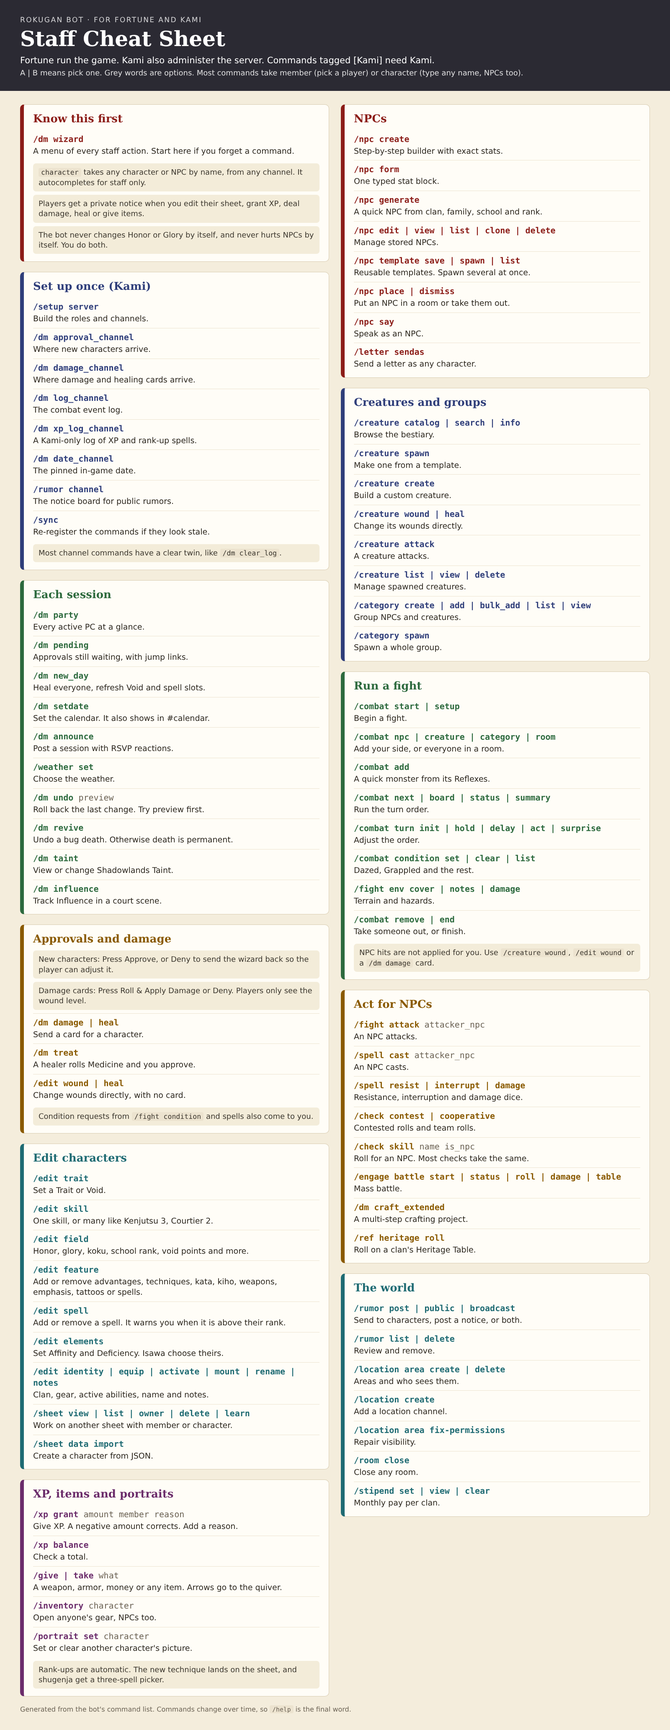
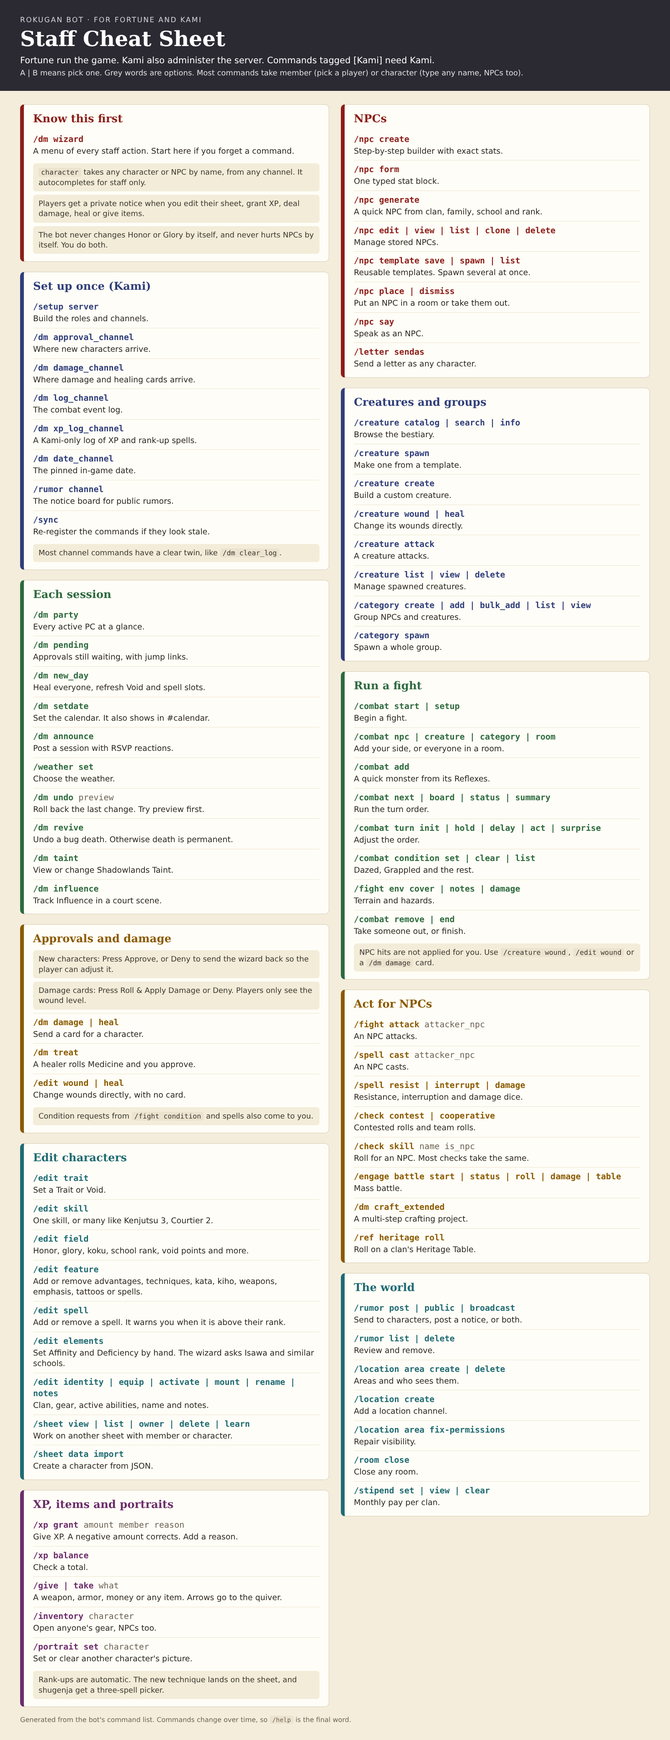
Chargen: fix the spell step for Isawa, Fuzake, Yogo and choose-your-affinity schools
An audit of every shugenja school in the wizard found several whose spell
step was broken or missing:

- Isawa Shugenja: its starting spells ("3 of any one element, 2 of any other
  element...") were parsed into nonsense element names, so no spell could be
  picked. The wizard now asks which element gets the 3, the 2 and the two 1s,
  then runs the normal picker.
- Isawa, Dutiful Disciple and Self-Taught let the player choose their
  Affinity, which the wizard never asked, so Mastery 2 spells in that element
  were never offered and the sheet got no Affinity. A new Affinity step comes
  first. Isawa has no Deficiency; the other two are Deficient in the opposing
  element. A Change Affinity button works until a spell is picked.
- Fuzake: "(one is automatically Path to Inner Peace)" ended up inside the
  element name. The label is clean and Path to Inner Peace is granted and
  counted against the Water slots.
- Yogo Wardmaster picks spells by keyword, which the wizard cannot do. It now
  says so and lets the player continue, instead of showing empty menus.
  Staff add the spells with /edit spell.
- Changing school in the wizard now clears the old school's spell choices.

Self-Taught's second Deficiency and Yogo's keyword Affinity are not
modelled on the sheet and are called out in the wizard text.

Claude-Session: https://claude.ai/code/session_01KS9eZFiisvRgjoufBXVsmu

diff --git a/discord_bot/cheatsheets/staff.html b/discord_bot/cheatsheets/staff.html
@@ -33,7 +33,7 @@ footer { padding:0 48px 30px; color:var(--muted); font-size:16px; }
 <header><div class="kicker">Rokugan Bot · For Fortune and Kami</div>
 <h1>Staff Cheat Sheet</h1>
 <p>Fortune run the game. Kami also administer the server. Commands tagged [Kami] need Kami.</p><p class="legend">A | B means pick one. Grey words are options. Most commands take member (pick a player) or character (type any name, NPCs too).</p></header>
-<main><section class="card" style="--accent:#8c1d18"><h2>Know this first</h2><div class="row"><div class="cmd">/dm wizard</div><div class="desc">A menu of every staff action. Start here if you forget a command.</div></div><div class="note"><code>character</code> takes any character or NPC by name, from any channel. It autocompletes for staff only.</div><div class="note">Players get a private notice when you edit their sheet, grant XP, deal damage, heal or give items.</div><div class="note">The bot never changes Honor or Glory by itself, and never hurts NPCs by itself. You do both.</div></section><section class="card" style="--accent:#2f3e7a"><h2>Set up once (Kami)</h2><div class="row"><div class="cmd">/setup server</div><div class="desc">Build the roles and channels.</div></div><div class="row"><div class="cmd">/dm approval_channel</div><div class="desc">Where new characters arrive.</div></div><div class="row"><div class="cmd">/dm damage_channel</div><div class="desc">Where damage and healing cards arrive.</div></div><div class="row"><div class="cmd">/dm log_channel</div><div class="desc">The combat event log.</div></div><div class="row"><div class="cmd">/dm xp_log_channel</div><div class="desc">A Kami-only log of XP and rank-up spells.</div></div><div class="row"><div class="cmd">/dm date_channel</div><div class="desc">The pinned in-game date.</div></div><div class="row"><div class="cmd">/rumor channel</div><div class="desc">The notice board for public rumors.</div></div><div class="row"><div class="cmd">/sync</div><div class="desc">Re-register the commands if they look stale.</div></div><div class="note">Most channel commands have a clear twin, like <code>/dm clear_log</code>.</div></section><section class="card" style="--accent:#2d6a3e"><h2>Each session</h2><div class="row"><div class="cmd">/dm party</div><div class="desc">Every active PC at a glance.</div></div><div class="row"><div class="cmd">/dm pending</div><div class="desc">Approvals still waiting, with jump links.</div></div><div class="row"><div class="cmd">/dm new_day</div><div class="desc">Heal everyone, refresh Void and spell slots.</div></div><div class="row"><div class="cmd">/dm setdate</div><div class="desc">Set the calendar. It also shows in #calendar.</div></div><div class="row"><div class="cmd">/dm announce</div><div class="desc">Post a session with RSVP reactions.</div></div><div class="row"><div class="cmd">/weather set</div><div class="desc">Choose the weather.</div></div><div class="row"><div class="cmd">/dm undo <span class="opt">preview</span></div><div class="desc">Roll back the last change. Try preview first.</div></div><div class="row"><div class="cmd">/dm revive</div><div class="desc">Undo a bug death. Otherwise death is permanent.</div></div><div class="row"><div class="cmd">/dm taint</div><div class="desc">View or change Shadowlands Taint.</div></div><div class="row"><div class="cmd">/dm influence</div><div class="desc">Track Influence in a court scene.</div></div></section><section class="card" style="--accent:#8a5a00"><h2>Approvals and damage</h2><div class="note">New characters: Press Approve, or Deny to send the wizard back so the player can adjust it.</div><div class="note">Damage cards: Press Roll &amp; Apply Damage or Deny. Players only see the wound level.</div><div class="row"><div class="cmd">/dm damage | heal</div><div class="desc">Send a card for a character.</div></div><div class="row"><div class="cmd">/dm treat</div><div class="desc">A healer rolls Medicine and you approve.</div></div><div class="row"><div class="cmd">/edit wound | heal</div><div class="desc">Change wounds directly, with no card.</div></div><div class="note">Condition requests from <code>/fight condition</code> and spells also come to you.</div></section><section class="card" style="--accent:#1f6b73"><h2>Edit characters</h2><div class="row"><div class="cmd">/edit trait</div><div class="desc">Set a Trait or Void.</div></div><div class="row"><div class="cmd">/edit skill</div><div class="desc">One skill, or many like Kenjutsu 3, Courtier 2.</div></div><div class="row"><div class="cmd">/edit field</div><div class="desc">Honor, glory, koku, school rank, void points and more.</div></div><div class="row"><div class="cmd">/edit feature</div><div class="desc">Add or remove advantages, techniques, kata, kiho, weapons, emphasis, tattoos or spells.</div></div><div class="row"><div class="cmd">/edit spell</div><div class="desc">Add or remove a spell. It warns you when it is above their rank.</div></div><div class="row"><div class="cmd">/edit elements</div><div class="desc">Set Affinity and Deficiency. Isawa choose theirs.</div></div><div class="row"><div class="cmd">/edit identity | equip | activate | mount | rename | notes</div><div class="desc">Clan, gear, active abilities, name and notes.</div></div><div class="row"><div class="cmd">/sheet view | list | owner | delete | learn</div><div class="desc">Work on another sheet with member or character.</div></div><div class="row"><div class="cmd">/sheet data import</div><div class="desc">Create a character from JSON.</div></div></section><section class="card" style="--accent:#6b2c6b"><h2>XP, items and portraits</h2><div class="row"><div class="cmd">/xp grant <span class="opt">amount member reason</span></div><div class="desc">Give XP. A negative amount corrects. Add a reason.</div></div><div class="row"><div class="cmd">/xp balance</div><div class="desc">Check a total.</div></div><div class="row"><div class="cmd">/give | take <span class="opt">what</span></div><div class="desc">A weapon, armor, money or any item. Arrows go to the quiver.</div></div><div class="row"><div class="cmd">/inventory <span class="opt">character</span></div><div class="desc">Open anyone&#x27;s gear, NPCs too.</div></div><div class="row"><div class="cmd">/portrait set <span class="opt">character</span></div><div class="desc">Set or clear another character&#x27;s picture.</div></div><div class="note">Rank-ups are automatic. The new technique lands on the sheet, and shugenja get a three-spell picker.</div></section><section class="card" style="--accent:#8c1d18"><h2>NPCs</h2><div class="row"><div class="cmd">/npc create</div><div class="desc">Step-by-step builder with exact stats.</div></div><div class="row"><div class="cmd">/npc form</div><div class="desc">One typed stat block.</div></div><div class="row"><div class="cmd">/npc generate</div><div class="desc">A quick NPC from clan, family, school and rank.</div></div><div class="row"><div class="cmd">/npc edit | view | list | clone | delete</div><div class="desc">Manage stored NPCs.</div></div><div class="row"><div class="cmd">/npc template save | spawn | list</div><div class="desc">Reusable templates. Spawn several at once.</div></div><div class="row"><div class="cmd">/npc place | dismiss</div><div class="desc">Put an NPC in a room or take them out.</div></div><div class="row"><div class="cmd">/npc say</div><div class="desc">Speak as an NPC.</div></div><div class="row"><div class="cmd">/letter sendas</div><div class="desc">Send a letter as any character.</div></div></section><section class="card" style="--accent:#2f3e7a"><h2>Creatures and groups</h2><div class="row"><div class="cmd">/creature catalog | search | info</div><div class="desc">Browse the bestiary.</div></div><div class="row"><div class="cmd">/creature spawn</div><div class="desc">Make one from a template.</div></div><div class="row"><div class="cmd">/creature create</div><div class="desc">Build a custom creature.</div></div><div class="row"><div class="cmd">/creature wound | heal</div><div class="desc">Change its wounds directly.</div></div><div class="row"><div class="cmd">/creature attack</div><div class="desc">A creature attacks.</div></div><div class="row"><div class="cmd">/creature list | view | delete</div><div class="desc">Manage spawned creatures.</div></div><div class="row"><div class="cmd">/category create | add | bulk_add | list | view</div><div class="desc">Group NPCs and creatures.</div></div><div class="row"><div class="cmd">/category spawn</div><div class="desc">Spawn a whole group.</div></div></section><section class="card" style="--accent:#2d6a3e"><h2>Run a fight</h2><div class="row"><div class="cmd">/combat start | setup</div><div class="desc">Begin a fight.</div></div><div class="row"><div class="cmd">/combat npc | creature | category | room</div><div class="desc">Add your side, or everyone in a room.</div></div><div class="row"><div class="cmd">/combat add</div><div class="desc">A quick monster from its Reflexes.</div></div><div class="row"><div class="cmd">/combat next | board | status | summary</div><div class="desc">Run the turn order.</div></div><div class="row"><div class="cmd">/combat turn init | hold | delay | act | surprise</div><div class="desc">Adjust the order.</div></div><div class="row"><div class="cmd">/combat condition set | clear | list</div><div class="desc">Dazed, Grappled and the rest.</div></div><div class="row"><div class="cmd">/fight env cover | notes | damage</div><div class="desc">Terrain and hazards.</div></div><div class="row"><div class="cmd">/combat remove | end</div><div class="desc">Take someone out, or finish.</div></div><div class="note">NPC hits are not applied for you. Use <code>/creature wound</code>, <code>/edit wound</code> or a <code>/dm damage</code> card.</div></section><section class="card" style="--accent:#8a5a00"><h2>Act for NPCs</h2><div class="row"><div class="cmd">/fight attack <span class="opt">attacker_npc</span></div><div class="desc">An NPC attacks.</div></div><div class="row"><div class="cmd">/spell cast <span class="opt">attacker_npc</span></div><div class="desc">An NPC casts.</div></div><div class="row"><div class="cmd">/spell resist | interrupt | damage</div><div class="desc">Resistance, interruption and damage dice.</div></div><div class="row"><div class="cmd">/check contest | cooperative</div><div class="desc">Contested rolls and team rolls.</div></div><div class="row"><div class="cmd">/check skill <span class="opt">name is_npc</span></div><div class="desc">Roll for an NPC. Most checks take the same.</div></div><div class="row"><div class="cmd">/engage battle start | status | roll | damage | table</div><div class="desc">Mass battle.</div></div><div class="row"><div class="cmd">/dm craft_extended</div><div class="desc">A multi-step crafting project.</div></div><div class="row"><div class="cmd">/ref heritage roll</div><div class="desc">Roll on a clan&#x27;s Heritage Table.</div></div></section><section class="card" style="--accent:#1f6b73"><h2>The world</h2><div class="row"><div class="cmd">/rumor post | public | broadcast</div><div class="desc">Send to characters, post a notice, or both.</div></div><div class="row"><div class="cmd">/rumor list | delete</div><div class="desc">Review and remove.</div></div><div class="row"><div class="cmd">/location area create | delete</div><div class="desc">Areas and who sees them.</div></div><div class="row"><div class="cmd">/location create</div><div class="desc">Add a location channel.</div></div><div class="row"><div class="cmd">/location area fix-permissions</div><div class="desc">Repair visibility.</div></div><div class="row"><div class="cmd">/room close</div><div class="desc">Close any room.</div></div><div class="row"><div class="cmd">/stipend set | view | clear</div><div class="desc">Monthly pay per clan.</div></div></section></main>
+<main><section class="card" style="--accent:#8c1d18"><h2>Know this first</h2><div class="row"><div class="cmd">/dm wizard</div><div class="desc">A menu of every staff action. Start here if you forget a command.</div></div><div class="note"><code>character</code> takes any character or NPC by name, from any channel. It autocompletes for staff only.</div><div class="note">Players get a private notice when you edit their sheet, grant XP, deal damage, heal or give items.</div><div class="note">The bot never changes Honor or Glory by itself, and never hurts NPCs by itself. You do both.</div></section><section class="card" style="--accent:#2f3e7a"><h2>Set up once (Kami)</h2><div class="row"><div class="cmd">/setup server</div><div class="desc">Build the roles and channels.</div></div><div class="row"><div class="cmd">/dm approval_channel</div><div class="desc">Where new characters arrive.</div></div><div class="row"><div class="cmd">/dm damage_channel</div><div class="desc">Where damage and healing cards arrive.</div></div><div class="row"><div class="cmd">/dm log_channel</div><div class="desc">The combat event log.</div></div><div class="row"><div class="cmd">/dm xp_log_channel</div><div class="desc">A Kami-only log of XP and rank-up spells.</div></div><div class="row"><div class="cmd">/dm date_channel</div><div class="desc">The pinned in-game date.</div></div><div class="row"><div class="cmd">/rumor channel</div><div class="desc">The notice board for public rumors.</div></div><div class="row"><div class="cmd">/sync</div><div class="desc">Re-register the commands if they look stale.</div></div><div class="note">Most channel commands have a clear twin, like <code>/dm clear_log</code>.</div></section><section class="card" style="--accent:#2d6a3e"><h2>Each session</h2><div class="row"><div class="cmd">/dm party</div><div class="desc">Every active PC at a glance.</div></div><div class="row"><div class="cmd">/dm pending</div><div class="desc">Approvals still waiting, with jump links.</div></div><div class="row"><div class="cmd">/dm new_day</div><div class="desc">Heal everyone, refresh Void and spell slots.</div></div><div class="row"><div class="cmd">/dm setdate</div><div class="desc">Set the calendar. It also shows in #calendar.</div></div><div class="row"><div class="cmd">/dm announce</div><div class="desc">Post a session with RSVP reactions.</div></div><div class="row"><div class="cmd">/weather set</div><div class="desc">Choose the weather.</div></div><div class="row"><div class="cmd">/dm undo <span class="opt">preview</span></div><div class="desc">Roll back the last change. Try preview first.</div></div><div class="row"><div class="cmd">/dm revive</div><div class="desc">Undo a bug death. Otherwise death is permanent.</div></div><div class="row"><div class="cmd">/dm taint</div><div class="desc">View or change Shadowlands Taint.</div></div><div class="row"><div class="cmd">/dm influence</div><div class="desc">Track Influence in a court scene.</div></div></section><section class="card" style="--accent:#8a5a00"><h2>Approvals and damage</h2><div class="note">New characters: Press Approve, or Deny to send the wizard back so the player can adjust it.</div><div class="note">Damage cards: Press Roll &amp; Apply Damage or Deny. Players only see the wound level.</div><div class="row"><div class="cmd">/dm damage | heal</div><div class="desc">Send a card for a character.</div></div><div class="row"><div class="cmd">/dm treat</div><div class="desc">A healer rolls Medicine and you approve.</div></div><div class="row"><div class="cmd">/edit wound | heal</div><div class="desc">Change wounds directly, with no card.</div></div><div class="note">Condition requests from <code>/fight condition</code> and spells also come to you.</div></section><section class="card" style="--accent:#1f6b73"><h2>Edit characters</h2><div class="row"><div class="cmd">/edit trait</div><div class="desc">Set a Trait or Void.</div></div><div class="row"><div class="cmd">/edit skill</div><div class="desc">One skill, or many like Kenjutsu 3, Courtier 2.</div></div><div class="row"><div class="cmd">/edit field</div><div class="desc">Honor, glory, koku, school rank, void points and more.</div></div><div class="row"><div class="cmd">/edit feature</div><div class="desc">Add or remove advantages, techniques, kata, kiho, weapons, emphasis, tattoos or spells.</div></div><div class="row"><div class="cmd">/edit spell</div><div class="desc">Add or remove a spell. It warns you when it is above their rank.</div></div><div class="row"><div class="cmd">/edit elements</div><div class="desc">Set Affinity and Deficiency by hand. The wizard asks Isawa and similar schools.</div></div><div class="row"><div class="cmd">/edit identity | equip | activate | mount | rename | notes</div><div class="desc">Clan, gear, active abilities, name and notes.</div></div><div class="row"><div class="cmd">/sheet view | list | owner | delete | learn</div><div class="desc">Work on another sheet with member or character.</div></div><div class="row"><div class="cmd">/sheet data import</div><div class="desc">Create a character from JSON.</div></div></section><section class="card" style="--accent:#6b2c6b"><h2>XP, items and portraits</h2><div class="row"><div class="cmd">/xp grant <span class="opt">amount member reason</span></div><div class="desc">Give XP. A negative amount corrects. Add a reason.</div></div><div class="row"><div class="cmd">/xp balance</div><div class="desc">Check a total.</div></div><div class="row"><div class="cmd">/give | take <span class="opt">what</span></div><div class="desc">A weapon, armor, money or any item. Arrows go to the quiver.</div></div><div class="row"><div class="cmd">/inventory <span class="opt">character</span></div><div class="desc">Open anyone&#x27;s gear, NPCs too.</div></div><div class="row"><div class="cmd">/portrait set <span class="opt">character</span></div><div class="desc">Set or clear another character&#x27;s picture.</div></div><div class="note">Rank-ups are automatic. The new technique lands on the sheet, and shugenja get a three-spell picker.</div></section><section class="card" style="--accent:#8c1d18"><h2>NPCs</h2><div class="row"><div class="cmd">/npc create</div><div class="desc">Step-by-step builder with exact stats.</div></div><div class="row"><div class="cmd">/npc form</div><div class="desc">One typed stat block.</div></div><div class="row"><div class="cmd">/npc generate</div><div class="desc">A quick NPC from clan, family, school and rank.</div></div><div class="row"><div class="cmd">/npc edit | view | list | clone | delete</div><div class="desc">Manage stored NPCs.</div></div><div class="row"><div class="cmd">/npc template save | spawn | list</div><div class="desc">Reusable templates. Spawn several at once.</div></div><div class="row"><div class="cmd">/npc place | dismiss</div><div class="desc">Put an NPC in a room or take them out.</div></div><div class="row"><div class="cmd">/npc say</div><div class="desc">Speak as an NPC.</div></div><div class="row"><div class="cmd">/letter sendas</div><div class="desc">Send a letter as any character.</div></div></section><section class="card" style="--accent:#2f3e7a"><h2>Creatures and groups</h2><div class="row"><div class="cmd">/creature catalog | search | info</div><div class="desc">Browse the bestiary.</div></div><div class="row"><div class="cmd">/creature spawn</div><div class="desc">Make one from a template.</div></div><div class="row"><div class="cmd">/creature create</div><div class="desc">Build a custom creature.</div></div><div class="row"><div class="cmd">/creature wound | heal</div><div class="desc">Change its wounds directly.</div></div><div class="row"><div class="cmd">/creature attack</div><div class="desc">A creature attacks.</div></div><div class="row"><div class="cmd">/creature list | view | delete</div><div class="desc">Manage spawned creatures.</div></div><div class="row"><div class="cmd">/category create | add | bulk_add | list | view</div><div class="desc">Group NPCs and creatures.</div></div><div class="row"><div class="cmd">/category spawn</div><div class="desc">Spawn a whole group.</div></div></section><section class="card" style="--accent:#2d6a3e"><h2>Run a fight</h2><div class="row"><div class="cmd">/combat start | setup</div><div class="desc">Begin a fight.</div></div><div class="row"><div class="cmd">/combat npc | creature | category | room</div><div class="desc">Add your side, or everyone in a room.</div></div><div class="row"><div class="cmd">/combat add</div><div class="desc">A quick monster from its Reflexes.</div></div><div class="row"><div class="cmd">/combat next | board | status | summary</div><div class="desc">Run the turn order.</div></div><div class="row"><div class="cmd">/combat turn init | hold | delay | act | surprise</div><div class="desc">Adjust the order.</div></div><div class="row"><div class="cmd">/combat condition set | clear | list</div><div class="desc">Dazed, Grappled and the rest.</div></div><div class="row"><div class="cmd">/fight env cover | notes | damage</div><div class="desc">Terrain and hazards.</div></div><div class="row"><div class="cmd">/combat remove | end</div><div class="desc">Take someone out, or finish.</div></div><div class="note">NPC hits are not applied for you. Use <code>/creature wound</code>, <code>/edit wound</code> or a <code>/dm damage</code> card.</div></section><section class="card" style="--accent:#8a5a00"><h2>Act for NPCs</h2><div class="row"><div class="cmd">/fight attack <span class="opt">attacker_npc</span></div><div class="desc">An NPC attacks.</div></div><div class="row"><div class="cmd">/spell cast <span class="opt">attacker_npc</span></div><div class="desc">An NPC casts.</div></div><div class="row"><div class="cmd">/spell resist | interrupt | damage</div><div class="desc">Resistance, interruption and damage dice.</div></div><div class="row"><div class="cmd">/check contest | cooperative</div><div class="desc">Contested rolls and team rolls.</div></div><div class="row"><div class="cmd">/check skill <span class="opt">name is_npc</span></div><div class="desc">Roll for an NPC. Most checks take the same.</div></div><div class="row"><div class="cmd">/engage battle start | status | roll | damage | table</div><div class="desc">Mass battle.</div></div><div class="row"><div class="cmd">/dm craft_extended</div><div class="desc">A multi-step crafting project.</div></div><div class="row"><div class="cmd">/ref heritage roll</div><div class="desc">Roll on a clan&#x27;s Heritage Table.</div></div></section><section class="card" style="--accent:#1f6b73"><h2>The world</h2><div class="row"><div class="cmd">/rumor post | public | broadcast</div><div class="desc">Send to characters, post a notice, or both.</div></div><div class="row"><div class="cmd">/rumor list | delete</div><div class="desc">Review and remove.</div></div><div class="row"><div class="cmd">/location area create | delete</div><div class="desc">Areas and who sees them.</div></div><div class="row"><div class="cmd">/location create</div><div class="desc">Add a location channel.</div></div><div class="row"><div class="cmd">/location area fix-permissions</div><div class="desc">Repair visibility.</div></div><div class="row"><div class="cmd">/room close</div><div class="desc">Close any room.</div></div><div class="row"><div class="cmd">/stipend set | view | clear</div><div class="desc">Monthly pay per clan.</div></div></section></main>
 <footer>Generated from the bot's command list. Commands change over time, so <code>/help</code> is the final word.</footer>
 <script>document.body.dataset.h = document.documentElement.scrollHeight;</script>
 </body></html>

diff --git a/discord_bot/bot.py b/discord_bot/bot.py
@@ -1988,6 +1988,10 @@ class _SchoolSelect(discord.ui.Select):
         if interaction.user.id != int(self.state["user_id"]):
             await interaction.response.send_message("This isn't your wizard.", ephemeral=True)
             return
+        if self.state.get("school_name") != self.values[0]:
+            # Anything chosen for the spell step belonged to the old school.
+            for k in ("chosen_spells", "_spell_allot_remaining", "_slot_assign", "affinity_element", "deficiency_element"):
+                self.state.pop(k, None)
         self.state["school_name"] = self.values[0]
         if self.state.get("full_wizard"):
             sch = schools.get(self.values[0])
@@ -2436,7 +2440,9 @@ def _parse_spell_allotment(school: dict) -> dict[str, int] | None:
                 continue
             parts = chunk.split(None, 1)
             if len(parts) == 2 and parts[0].isdigit():
-                allot[parts[1]] = int(parts[0])
+                if re.match(r"of\s", parts[1]):
+                    continue  # "3 of any one element": See _flexible_slot_sizes
+                allot[re.sub(r"\s*\([^)]*\)", "", parts[1]).strip()] = int(parts[0])
         return allot if allot else None
     elements = ["Air", "Earth", "Fire", "Water"]
     aff_lower = aff.lower()
@@ -2454,6 +2460,45 @@ def _parse_spell_allotment(school: dict) -> dict[str, int] | None:
         if el != affinity_el:
             allot[el] = 1
     return allot
+
+
+_SLOT_RE = re.compile(r"(\d+)\s+of\s+(?:any one|any other|a third|a fourth|a fifth)\s+element", re.IGNORECASE)
+_AUTO_SPELL_RE = re.compile(r"\(one is automatically ([^)]+)\)", re.IGNORECASE)
+_OPPOSING_ELEMENT = {"Air": "Earth", "Earth": "Air", "Fire": "Water", "Water": "Fire"}
+_SPELL_ELEMENTS = ("Air", "Earth", "Fire", "Water", "Void")
+
+
+def _starting_spell_text(school: dict | None) -> str:
+    aff = (school or {}).get("affinity", "") or ""
+    return aff.split("|", 1)[1] if "|" in aff else ""
+
+
+def _flexible_slot_sizes(school: dict | None) -> list[int] | None:
+    """Starting spells the player assigns to elements of their own choice, such as
+    Isawa's "3 of any one element, 2 of any other element, ..." -> [3, 2, 1, 1]."""
+    sizes = [int(n) for n in _SLOT_RE.findall(_starting_spell_text(school))]
+    return sizes or None
+
+
+def _auto_spells(school: dict | None) -> list[str]:
+    """Starting spells a school grants outright, such as Fuzake's Path to Inner Peace."""
+    return [m.strip() for m in _AUTO_SPELL_RE.findall(_starting_spell_text(school))]
+
+
+def _affinity_choice(school: dict | None) -> dict | None:
+    """Schools whose rules let the player pick the Affinity element at creation:
+    {"elements": [...], "opposing": True when the opposing element becomes the Deficiency}."""
+    text = ((school or {}).get("affinity", "") or "").split("|", 1)[0]
+    if re.search(r"any element including void", text, re.IGNORECASE):
+        return {"elements": list(_SPELL_ELEMENTS), "opposing": False}
+    if re.search(r"non-void element(?!al)", text, re.IGNORECASE) and re.search(r"affinity", text, re.IGNORECASE):
+        return {"elements": ["Air", "Earth", "Fire", "Water"], "opposing": True}
+    return None
+
+
+def _unsupported_slots(allot: dict[str, int] | None) -> bool:
+    """True when a school's starting spells are not simple per-element counts (Yogo Wardmaster)."""
+    return bool(allot) and any(k not in _SPELL_ELEMENTS for k in allot)
 
 
 def _build_base_char(state: dict) -> Character:
@@ -2547,6 +2592,9 @@ def _chargen_embed(state: dict) -> discord.Embed:
     if state.get("emphasis_purchases"):
         el = ", ".join(f"{e['skill']}: {e['emphasis']}" for e in state["emphasis_purchases"])
         lines.append(f"**Emphases:** {el}")
+    if state.get("affinity_element"):
+        deff = f" / Deficiency {state['deficiency_element']}" if state.get("deficiency_element") else ""
+        lines.append(f"**Affinity:** {state['affinity_element']}{deff}")
     if state.get("chosen_spells"):
         lines.append(f"**Spells:** {', '.join(state['chosen_spells'])}")
 
@@ -2599,13 +2647,16 @@ def _materialize_character(state: dict) -> Character:
     sch = schools.get(state.get("school_name", "")) if state.get("school_name") else None
     if sch and sch.get("affinity"):
         allot = _parse_spell_allotment(sch)
-        if allot:
+        if allot or _flexible_slot_sizes(sch):
             for base_spell in ("Sense", "Commune", "Summon"):
                 if base_spell not in char.spells_known:
                     char.spells_known.insert(0, base_spell)
         # The school's Affinity and Deficiency go on the sheet so casting rolls
-        # apply them (s31). Schools that let the player choose are set by staff.
+        # apply them (s31). Where the school lets the player choose, the wizard
+        # stored their pick; otherwise the school fixes them.
         aff_el, def_el = _school_elements(sch)
+        if not aff_el and state.get("affinity_element"):
+            aff_el, def_el = state["affinity_element"], state.get("deficiency_element", "")
         if aff_el and not char.affinity_element:
             char.affinity_element = aff_el
         if def_el and not char.deficiency_element:
@@ -3471,7 +3522,7 @@ def _chargen_max_mastery(state: dict, element: str) -> int:
     """Highest Mastery Level a new Rank 1 shugenja may take in this element: 1, or 2
     for the school's Affinity element (s31: Cast as if School Rank is 1 higher)."""
     sch = schools.get(state.get("school_name", "")) if state.get("school_name") else None
-    aff_el, _ = _school_elements(sch)
+    aff_el = state.get("affinity_element") or _school_elements(sch)[0]
     return 2 if aff_el and aff_el.lower() == element.lower() else 1
 
 
@@ -3513,16 +3564,161 @@ class _SpellSelect(discord.ui.Select):
         await _chargen_spells(interaction, self.state)
 
 
+async def _chargen_affinity_pick(interaction: discord.Interaction, state: dict, choice: dict) -> None:
+    """Schools that let the player choose their Affinity element (Isawa, Dutiful Disciple,
+    Self-Taught). Asked before the spells, since it decides which Mastery Levels are open."""
+    sch = schools.get(state.get("school_name", "")) or {}
+    opposing = choice["opposing"]
+    sel = discord.ui.Select(
+        placeholder="Choose your Affinity element...",
+        options=[discord.SelectOption(
+            label=el, description=(f"Deficiency: {_OPPOSING_ELEMENT[el]}" if opposing else "No Deficiency"))
+            for el in choice["elements"]],
+    )
+
+    async def on_pick(sel_inter: discord.Interaction) -> None:
+        if sel_inter.user.id != int(state["user_id"]):
+            await sel_inter.response.send_message("This isn't your wizard.", ephemeral=True)
+            return
+        el = sel.values[0]
+        state["affinity_element"] = el
+        state["deficiency_element"] = _OPPOSING_ELEMENT.get(el, "") if opposing else ""
+        await _chargen_spells(sel_inter, state)
+
+    sel.callback = on_pick
+    back_btn = discord.ui.Button(label="Back: Skills", style=discord.ButtonStyle.secondary, row=1)
+
+    async def on_back(btn_inter: discord.Interaction) -> None:
+        if btn_inter.user.id != int(state["user_id"]):
+            await btn_inter.response.send_message("This isn't your wizard.", ephemeral=True)
+            return
+        await _chargen_skills(btn_inter, state)
+
+    back_btn.callback = on_back
+    view = _ChargenView(state)
+    view.add_item(sel)
+    view.add_item(back_btn)
+    text = (f"**Step 9/10 - Affinity** · {sch.get('name', 'Your school')} lets you choose your Affinity element. "
+            f"You may learn and cast spells of it as if your School Rank were one higher, so Mastery 2 spells are open to you. "
+            + ("The opposing element becomes your Deficiency." if opposing else "You have no Deficiency."))
+    if re.search(r"and in any one other element", sch.get("affinity", ""), re.IGNORECASE):
+        text += (" Your school also gives a second Deficiency of your choice: The sheet holds only one, "
+                 "so tell staff which element you want.")
+    await interaction.response.edit_message(content=text, embed=_chargen_embed(state), view=view)
+
+
+async def _chargen_assign_slots(interaction: discord.Interaction, state: dict, sizes: list[int]) -> None:
+    """Isawa-style starting spells: The player picks which element gets the 3, the 2, and so on."""
+    sch = schools.get(state.get("school_name", "")) or {}
+    assigned = state.setdefault("_slot_assign", {})
+    if len(assigned) >= len(sizes):
+        state["_spell_allot_remaining"] = dict(assigned)
+        await _chargen_spells(interaction, state)
+        return
+    size = sizes[len(assigned)]
+    sel = discord.ui.Select(
+        placeholder=f"Element for your {size} spell{'s' if size != 1 else ''}...",
+        options=[discord.SelectOption(label=el) for el in _SPELL_ELEMENTS if el not in assigned],
+    )
+
+    async def on_pick(sel_inter: discord.Interaction) -> None:
+        if sel_inter.user.id != int(state["user_id"]):
+            await sel_inter.response.send_message("This isn't your wizard.", ephemeral=True)
+            return
+        assigned[sel.values[0]] = size
+        await _chargen_assign_slots(sel_inter, state, sizes)
+
+    sel.callback = on_pick
+    back_btn = discord.ui.Button(label="Back: Skills", style=discord.ButtonStyle.secondary, row=1)
+
+    async def on_back(btn_inter: discord.Interaction) -> None:
+        if btn_inter.user.id != int(state["user_id"]):
+            await btn_inter.response.send_message("This isn't your wizard.", ephemeral=True)
+            return
+        state.pop("_slot_assign", None)
+        await _chargen_skills(btn_inter, state)
+
+    back_btn.callback = on_back
+    view = _ChargenView(state)
+    view.add_item(sel)
+    view.add_item(back_btn)
+    await interaction.response.edit_message(
+        content=(f"**Step 9/10 - Starting Spells** · {sch.get('name', 'Your school')} starts with spells of "
+                 f"{', '.join(str(n) for n in sizes)} in different elements of your choice. "
+                 f"Which element gets your **{size}** spell{'s' if size != 1 else ''}? "
+                 f"({len(assigned) + 1} of {len(sizes)})"),
+        embed=_chargen_embed(state), view=view,
+    )
+
+
+async def _chargen_spells_unsupported(interaction: discord.Interaction, state: dict, allot: dict[str, int]) -> None:
+    """Starting spells the wizard cannot offer (Yogo Wardmaster picks by keyword): say so, let them skip."""
+    sch = schools.get(state.get("school_name", "")) or {}
+    view = _ChargenView(state)
+    back_btn = discord.ui.Button(label="Back: Skills", style=discord.ButtonStyle.secondary, row=0)
+    skip_btn = discord.ui.Button(label="Continue Without Spells", style=discord.ButtonStyle.primary, row=0)
+
+    async def on_back(btn_inter: discord.Interaction) -> None:
+        if btn_inter.user.id != int(state["user_id"]):
+            await btn_inter.response.send_message("This isn't your wizard.", ephemeral=True)
+            return
+        await _chargen_skills(btn_inter, state)
+
+    async def on_skip(btn_inter: discord.Interaction) -> None:
+        if btn_inter.user.id != int(state["user_id"]):
+            await btn_inter.response.send_message("This isn't your wizard.", ephemeral=True)
+            return
+        await _chargen_review(btn_inter, state)
+
+    back_btn.callback = on_back
+    skip_btn.callback = on_skip
+    view.add_item(back_btn)
+    view.add_item(skip_btn)
+    slots = ", ".join(f"{n} {k}" for k, n in allot.items())
+    await interaction.response.edit_message(
+        content=(f"**Step 9/10 - Starting Spells** · {sch.get('name', 'Your school')} starts with {slots}, picked by "
+                 f"keyword, which the wizard cannot do yet. Continue, and staff will add them with `/edit spell` "
+                 f"when they approve you. (Sense, Commune, Summon are auto-granted.)"),
+        embed=_chargen_embed(state), view=view,
+    )
+
+
+def _apply_auto_spells(state: dict, sch: dict | None) -> None:
+    """Spells the school hands out outright count against that element's slots."""
+    for name in _auto_spells(sch):
+        sp = spells.get(name)
+        if sp is None:
+            continue
+        chosen = state.setdefault("chosen_spells", [])
+        if sp["name"] not in chosen:
+            chosen.append(sp["name"])
+        rem = state["_spell_allot_remaining"]
+        if sp["element"] in rem:
+            rem[sp["element"]] = max(0, rem[sp["element"]] - 1)
+
+
 async def _chargen_spells(interaction: discord.Interaction, state: dict) -> None:
     state["step"] = "spells"
     sch = schools.get(state.get("school_name", "")) if state.get("school_name") else None
     allot = _parse_spell_allotment(sch) if sch else None
-    if allot is None:
+    flexible = _flexible_slot_sizes(sch)
+    choice = _affinity_choice(sch)
+    if choice and not state.get("affinity_element"):
+        await _chargen_affinity_pick(interaction, state, choice)
+        return
+    if allot is None and not flexible:
         await _chargen_review(interaction, state)
+        return
+    if _unsupported_slots(allot):
+        await _chargen_spells_unsupported(interaction, state, allot)
+        return
+    if flexible and "_spell_allot_remaining" not in state:
+        await _chargen_assign_slots(interaction, state, flexible)
         return
 
     if "_spell_allot_remaining" not in state:
         state["_spell_allot_remaining"] = dict(allot)
+        _apply_auto_spells(state, sch)
 
     remaining = state["_spell_allot_remaining"]
     total_remaining = sum(max(0, v) for v in remaining.values())
@@ -3594,6 +3790,19 @@ async def _chargen_spells(interaction: discord.Interaction, state: dict) -> None
     skip_btn.callback = on_skip
     view.add_item(back_btn)
     view.add_item(skip_btn)
+    if choice and not state.get("chosen_spells"):
+        change_btn = discord.ui.Button(label="Change Affinity", style=discord.ButtonStyle.secondary, row=2)
+
+        async def on_change(btn_inter: discord.Interaction) -> None:
+            if btn_inter.user.id != int(state["user_id"]):
+                await btn_inter.response.send_message("This isn't your wizard.", ephemeral=True)
+                return
+            state.pop("affinity_element", None)
+            state.pop("deficiency_element", None)
+            await _chargen_spells(btn_inter, state)
+
+        change_btn.callback = on_change
+        view.add_item(change_btn)
 
     slots_desc = ", ".join(f"{el}: {cnt}" for el, cnt in remaining.items() if cnt > 0)
     await interaction.response.edit_message(

diff --git a/discord_bot/tools/build_cheatsheets.py b/discord_bot/tools/build_cheatsheets.py
@@ -211,7 +211,7 @@ STAFF = Sheet(
             E("/edit field", "Honor, glory, koku, school rank, void points and more."),
             E("/edit feature", "Add or remove advantages, techniques, kata, kiho, weapons, emphasis, tattoos or spells."),
             E("/edit spell", "Add or remove a spell. It warns you when it is above their rank."),
-            E("/edit elements", "Set Affinity and Deficiency. Isawa choose theirs."),
+            E("/edit elements", "Set Affinity and Deficiency by hand. The wizard asks Isawa and similar schools."),
             E("/edit identity | equip | activate | mount | rename | notes", "Clan, gear, active abilities, name and notes."),
             E("/sheet view | list | owner | delete | learn", "Work on another sheet with member or character."),
             E("/sheet data import", "Create a character from JSON."),

diff --git a/discord_bot/STAFF_CHEATSHEET.md b/discord_bot/STAFF_CHEATSHEET.md
@@ -58,7 +58,7 @@ Fortune run the game. Kami also administer the server. Commands tagged [Kami] ne
 - `/edit field`  Honor, glory, koku, school rank, void points and more.
 - `/edit feature`  Add or remove advantages, techniques, kata, kiho, weapons, emphasis, tattoos or spells.
 - `/edit spell`  Add or remove a spell. It warns you when it is above their rank.
-- `/edit elements`  Set Affinity and Deficiency. Isawa choose theirs.
+- `/edit elements`  Set Affinity and Deficiency by hand. The wizard asks Isawa and similar schools.
 - `/edit identity | equip | activate | mount | rename | notes`  Clan, gear, active abilities, name and notes.
 - `/sheet view | list | owner | delete | learn`  Work on another sheet with member or character.
 - `/sheet data import`  Create a character from JSON.
